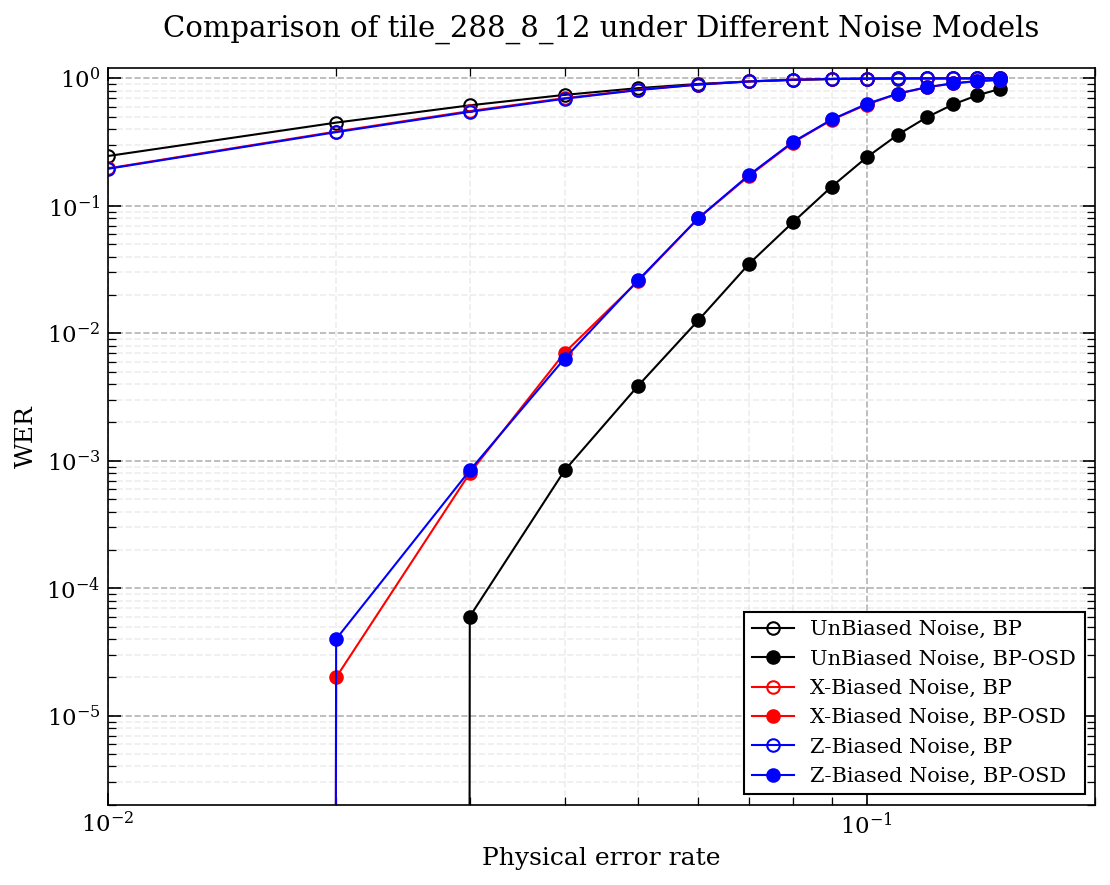
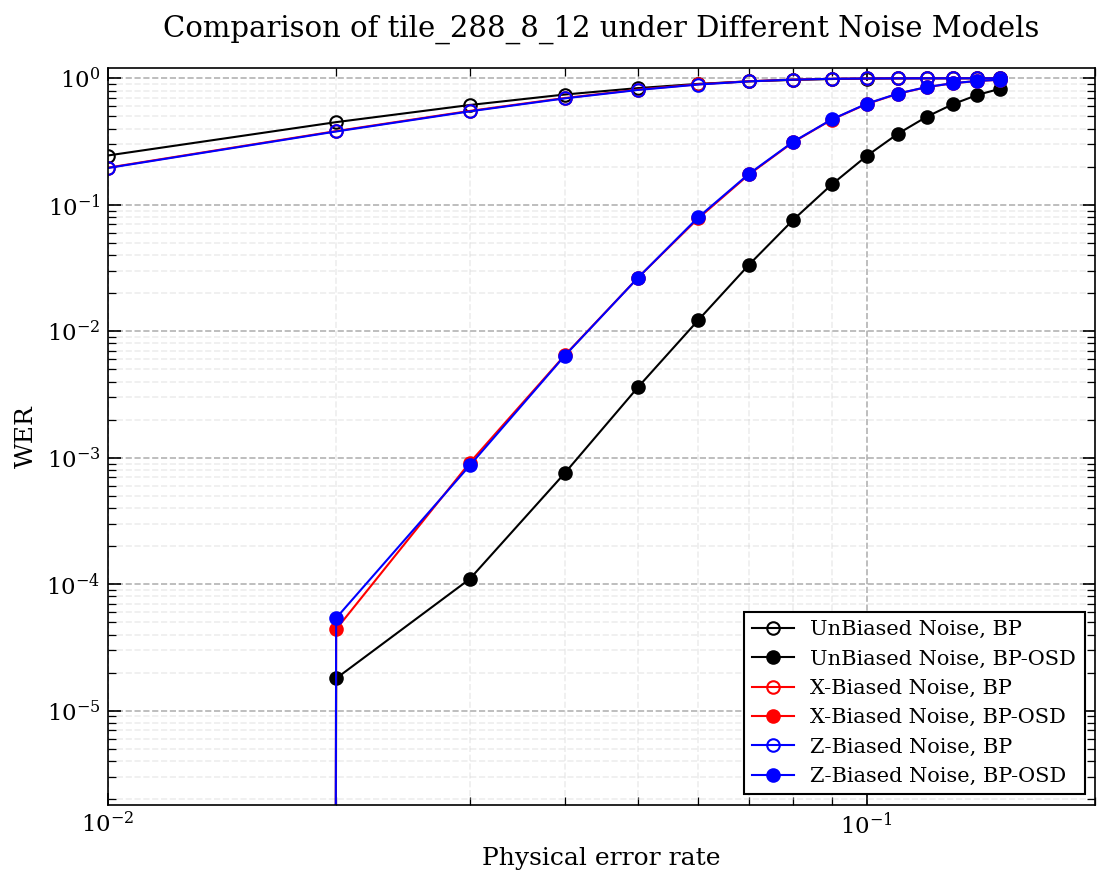
results of tile code from ada (need a longer run)

diff --git a/BP-OSD_Decoder/Tile Codes/Plotter.py b/BP-OSD_Decoder/Tile Codes/Plotter.py
@@ -213,6 +213,6 @@ def plot_multiple_bp_vs_osd(code_name):
 # ONLY CHANGE THIS
 # =============================================================
 
-code_name = "tile_288_8_14"
+code_name = "tile_288_8_12"
 
 plot_multiple_bp_vs_osd(code_name)
